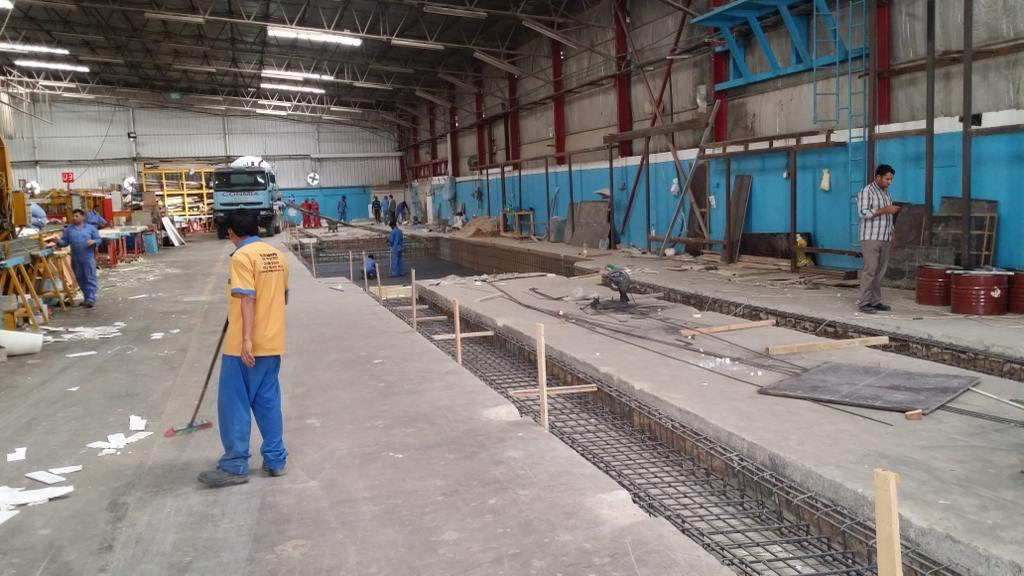
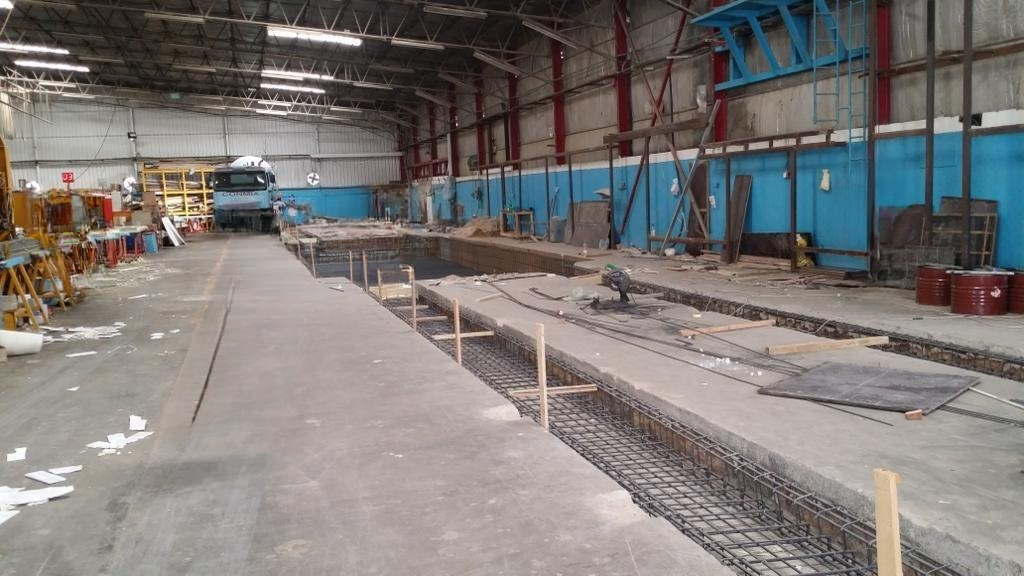
aljouhari: swap in people-free photos, uniform gallery grid
- Replace concrete-6, foam-2, machinery-2, staircase-2 with edited versions (people removed)
- Portfolio gallery now a uniform 4:3 grid (3/2/1 cols) instead of mixed tile sizes

diff --git a/aljouhari/index.html b/aljouhari/index.html
@@ -151,10 +151,9 @@
   .gf:last-child{border-right:0}
   .gf:hover{color:#fff}
   .gf.active{background:var(--gold);color:#fff}
-  .gallery{display:grid;grid-template-columns:repeat(12,1fr);gap:16px;grid-auto-flow:dense}
-  .gallery figure{position:relative;overflow:hidden;grid-column:span 4;aspect-ratio:4/3;transition:opacity .5s cubic-bezier(.2,.7,.2,1),transform .5s cubic-bezier(.2,.7,.2,1)}
-  .gallery figure.tall{grid-column:span 4;aspect-ratio:3/4}
-  .gallery figure.wide{grid-column:span 8;aspect-ratio:16/9}
+  .gallery{display:grid;grid-template-columns:repeat(3,1fr);gap:14px}
+  .gallery figure{position:relative;overflow:hidden;aspect-ratio:4/3;transition:opacity .5s cubic-bezier(.2,.7,.2,1),transform .5s cubic-bezier(.2,.7,.2,1)}
+  .gallery figure.tall,.gallery figure.wide{aspect-ratio:4/3}
   .gallery img{width:100%;height:100%;object-fit:cover;filter:brightness(.98);transition:filter 1s ease,transform 1.4s cubic-bezier(.2,.7,.2,1)}
   .gallery figure:hover img{filter:brightness(1.04);transform:scale(1.06)}
   .gallery figcaption{position:absolute;inset:0;display:flex;flex-direction:column;justify-content:flex-end;padding:26px;background:linear-gradient(transparent 40%,rgba(20,19,15,.82));opacity:0;transition:opacity .5s ease}
@@ -271,7 +270,7 @@
     .figures .wrap{grid-template-columns:repeat(2,1fr)}
     .fig{border-bottom:1px solid var(--line-dark)}
     .fig:nth-child(2){border-right:0}
-    .gallery figure,.gallery figure.tall,.gallery figure.wide{grid-column:span 6;aspect-ratio:1}
+    .gallery{grid-template-columns:repeat(2,1fr)}
     .foot-top{grid-template-columns:1fr 1fr}
     section.block{padding:100px 0}
     form{padding:34px}
@@ -281,7 +280,7 @@
     .clients-grid{grid-template-columns:repeat(2,1fr)}
     .client:nth-child(4n){border-right:1px solid var(--line)}
     .client:nth-child(2n){border-right:0}
-    .gallery figure,.gallery figure.tall,.gallery figure.wide{grid-column:span 12}
+    .gallery{grid-template-columns:1fr}
     .foot-top{grid-template-columns:1fr}
     .intro-figure .accent{display:none}
   }
